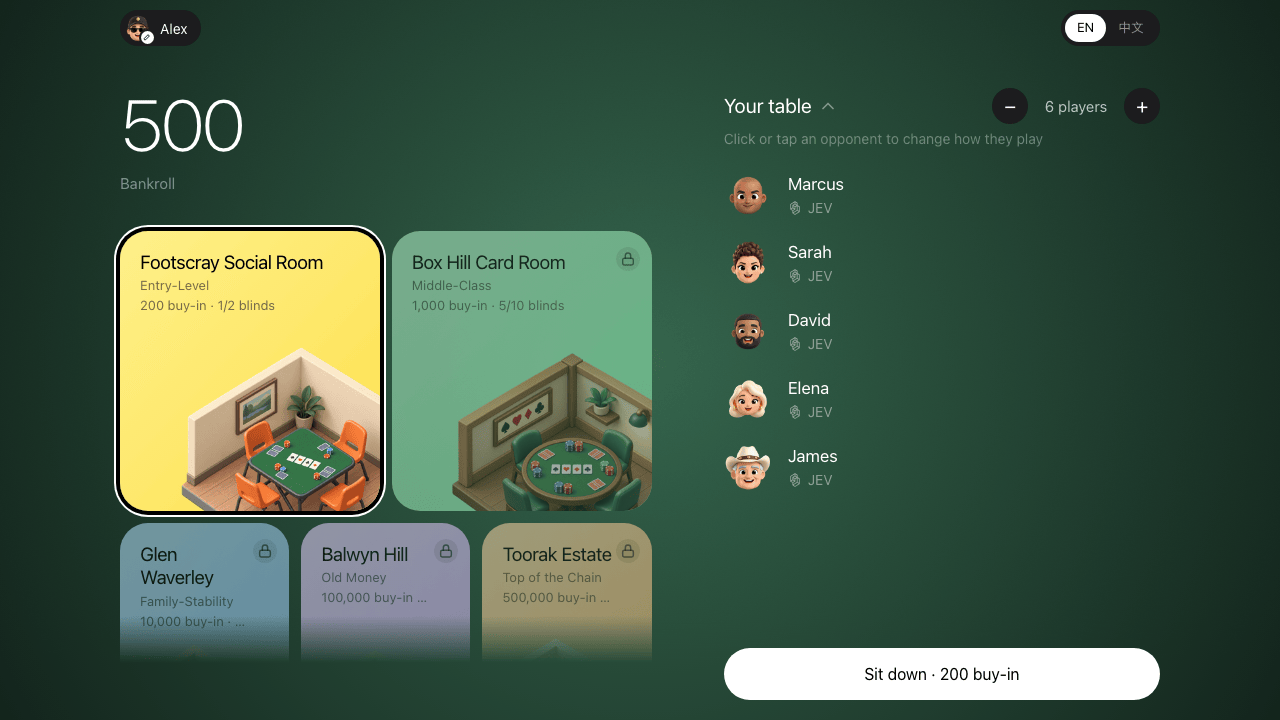
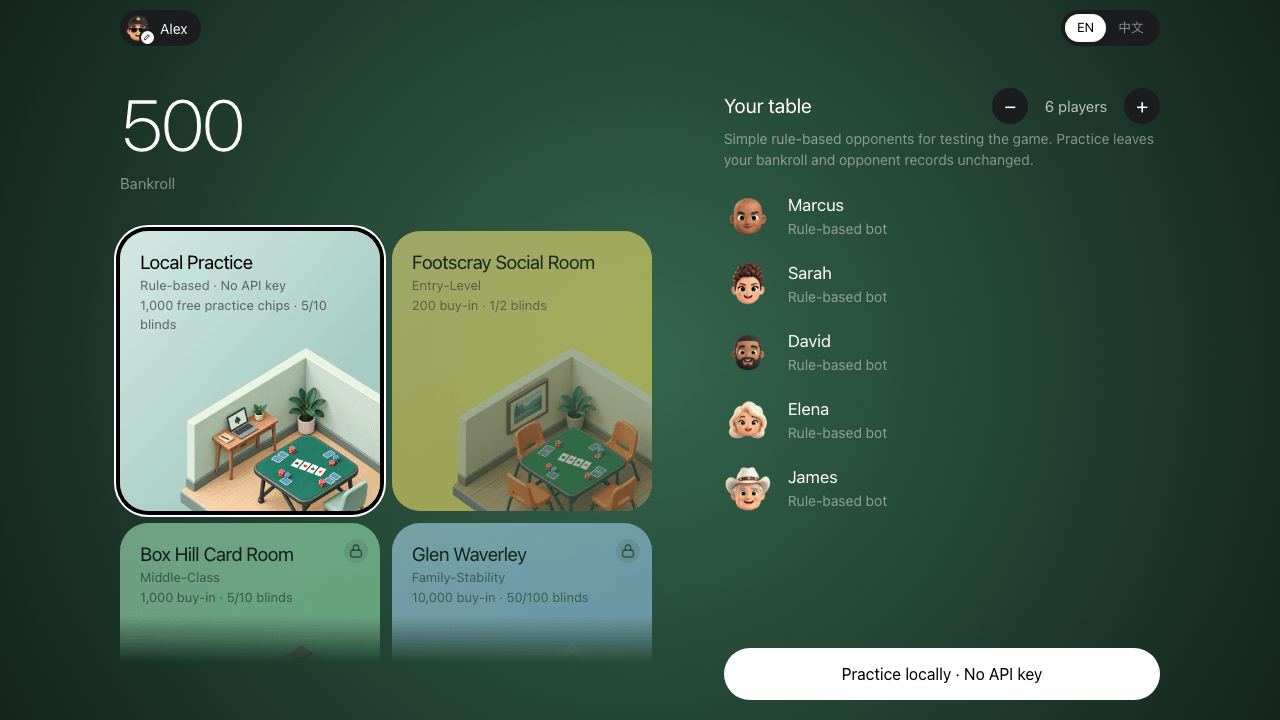
Show all six venues on the home page
Adds the Local Practice room to the venue grid (now 3 x 2), mentions that it
needs no API key in the hero and the ways to play, and refreshes the lobby
screenshot.

Changed region(s): [[0.0938, 0.3056, 0.5312, 0.9167], [0.5625, 0.1833, 0.9062, 0.7028], [0.6562, 0.9167, 0.8125, 0.9472]]

diff --git a/site/index.html b/site/index.html
@@ -57,8 +57,8 @@
         </a>
       </div>
       <p class="fineprint">
-        <span lang="en">Virtual chips · Bring your own API key · Open source, MIT</span>
-        <span lang="zh">虚拟筹码 · 使用你自己的 API key · MIT 开源</span>
+        <span lang="en">Virtual chips · Free practice, no key · Bring your own key for AI opponents · MIT</span>
+        <span lang="zh">虚拟筹码 · 免密钥本地练习 · AI 对手使用你自己的 key · MIT 开源</span>
       </p>
 
       <figure class="shot hero-shot">
@@ -69,13 +69,20 @@
     <!-- Venues -->
     <section class="section">
       <div class="section-head">
-        <h2><span lang="en">Five rooms, one bankroll</span><span lang="zh">五个牌室，一份资金</span></h2>
+        <h2><span lang="en">Six rooms, one bankroll</span><span lang="zh">六个牌室，一份资金</span></h2>
         <p>
-          <span lang="en">Start with 500 chips in Footscray. Win, and the higher-stakes rooms unlock.</span>
-          <span lang="zh">从 Footscray 的 500 筹码起步，赢下来，更高级别的牌室就会解锁。</span>
+          <span lang="en">Warm up in Local Practice against rule-based opponents — no API key needed. Then take 500 chips to Footscray; win, and the higher-stakes rooms unlock.</span>
+          <span lang="zh">先在本地练习里和规则对手热身——无需 API key。再带着 500 筹码去 Footscray，赢下来，更高级别的牌室就会解锁。</span>
         </p>
       </div>
       <ul class="venues">
+        <li class="venue v-local">
+          <div class="venue-text">
+            <h3><span lang="en">Local Practice</span><span lang="zh">本地练习</span></h3>
+            <p><span lang="en">Rule-based · No API key</span><span lang="zh">规则对手 · 无需密钥</span></p>
+          </div>
+          <img src="venues/local-practice.png" alt="" loading="lazy" />
+        </li>
         <li class="venue v-footscray">
           <div class="venue-text">
             <h3><span lang="en">Footscray Social Room</span><span lang="zh">Footscray 社区牌室</span></h3>
@@ -187,8 +194,8 @@
         <li>
           <h3><span lang="en">Online</span><span lang="zh">在线</span></h3>
           <p>
-            <span lang="en">Open <a href="https://frankie-poker.vercel.app">frankie-poker.vercel.app</a>, tap your avatar, open <b>AI connection</b> and paste your own <a href="https://openrouter.ai/settings/keys">OpenRouter key</a>. It stays in your browser; requests go straight to the provider.</span>
-            <span lang="zh">打开 <a href="https://frankie-poker.vercel.app">frankie-poker.vercel.app</a>，点击你的头像，在 <b>AI 连接</b> 中填入你自己的 <a href="https://openrouter.ai/settings/keys">OpenRouter key</a>。key 只保存在你的浏览器里，请求直接发往模型服务商。</span>
+            <span lang="en">Open <a href="https://frankie-poker.vercel.app">frankie-poker.vercel.app</a>. Local Practice works right away, no key. For model opponents, tap your avatar, open <b>AI connection</b> and paste your own <a href="https://openrouter.ai/settings/keys">OpenRouter key</a>. It stays in your browser; requests go straight to the provider.</span>
+            <span lang="zh">打开 <a href="https://frankie-poker.vercel.app">frankie-poker.vercel.app</a>，本地练习无需 key 即可开玩。想和模型对战，点击你的头像，在 <b>AI 连接</b> 中填入你自己的 <a href="https://openrouter.ai/settings/keys">OpenRouter key</a>。key 只保存在你的浏览器里，请求直接发往模型服务商。</span>
           </p>
           <a class="btn primary small" href="https://frankie-poker.vercel.app"><span lang="en">Open the app</span><span lang="zh">打开应用</span></a>
         </li>

diff --git a/site/style.css b/site/style.css
@@ -153,7 +153,7 @@ main { max-width: 1120px; margin: 0 auto; padding: 0 var(--gutter); }
   margin: 0;
   padding: 0;
   display: grid;
-  grid-template-columns: repeat(6, minmax(0, 1fr));
+  grid-template-columns: repeat(3, minmax(0, 1fr));
   gap: 12px;
 }
 .venue {
@@ -163,9 +163,7 @@ main { max-width: 1120px; margin: 0 auto; padding: 0 var(--gutter); }
   padding: 20px;
   border-radius: var(--radius);
   color: #000;
-  grid-column: span 2;
 }
-.venue:nth-child(-n + 2) { grid-column: span 3; }
 .venue-text { position: relative; z-index: 1; }
 .venue h3 { font-size: 20px; line-height: 1.2; }
 .venue p { margin-top: 2px; font-size: 14px; color: rgba(0, 0, 0, 0.55); }
@@ -180,8 +178,8 @@ main { max-width: 1120px; margin: 0 auto; padding: 0 var(--gutter); }
   pointer-events: none;
   transition: transform 0.4s cubic-bezier(0.2, 0.8, 0.2, 1);
 }
-.venue:nth-child(-n + 2) img { height: 108%; bottom: -38%; right: -6%; }
 .venue:hover img { transform: translate(-3%, -3%) scale(1.04); }
+.v-local { background: linear-gradient(135deg, #d5e9e5, #91bfb5); }
 .v-footscray { background: linear-gradient(135deg, #fef08a, #fde047); }
 .v-boxhill { background: linear-gradient(135deg, #bbf7d0, #86efac); }
 .v-glen { background: linear-gradient(135deg, #bae6fd, #93c5fd); }
@@ -303,8 +301,6 @@ main { max-width: 1120px; margin: 0 auto; padding: 0 var(--gutter); }
 /* Tablet */
 @media (max-width: 860px) {
   .venues { grid-template-columns: repeat(2, minmax(0, 1fr)); }
-  .venue, .venue:nth-child(-n + 2) { grid-column: span 1; }
-  .venue:first-child { grid-column: span 2; }
   .feature, .feature.flip { grid-template-columns: 1fr; }
   .feature.flip .shot { order: 0; }
   .mini, .ways { grid-template-columns: 1fr; }
@@ -313,7 +309,7 @@ main { max-width: 1120px; margin: 0 auto; padding: 0 var(--gutter); }
 /* Phone */
 @media (max-width: 520px) {
   .venues { grid-template-columns: 1fr; }
-  .venue, .venue:first-child, .venue:nth-child(-n + 2) { grid-column: auto; height: 220px; }
+  .venue { height: 220px; }
   .venue img { right: -6%; height: 100%; bottom: -26%; }
   .brand .signature { width: 76px; }
   .terminal pre { font-size: 13px; padding: 20px; padding-top: 48px; }
